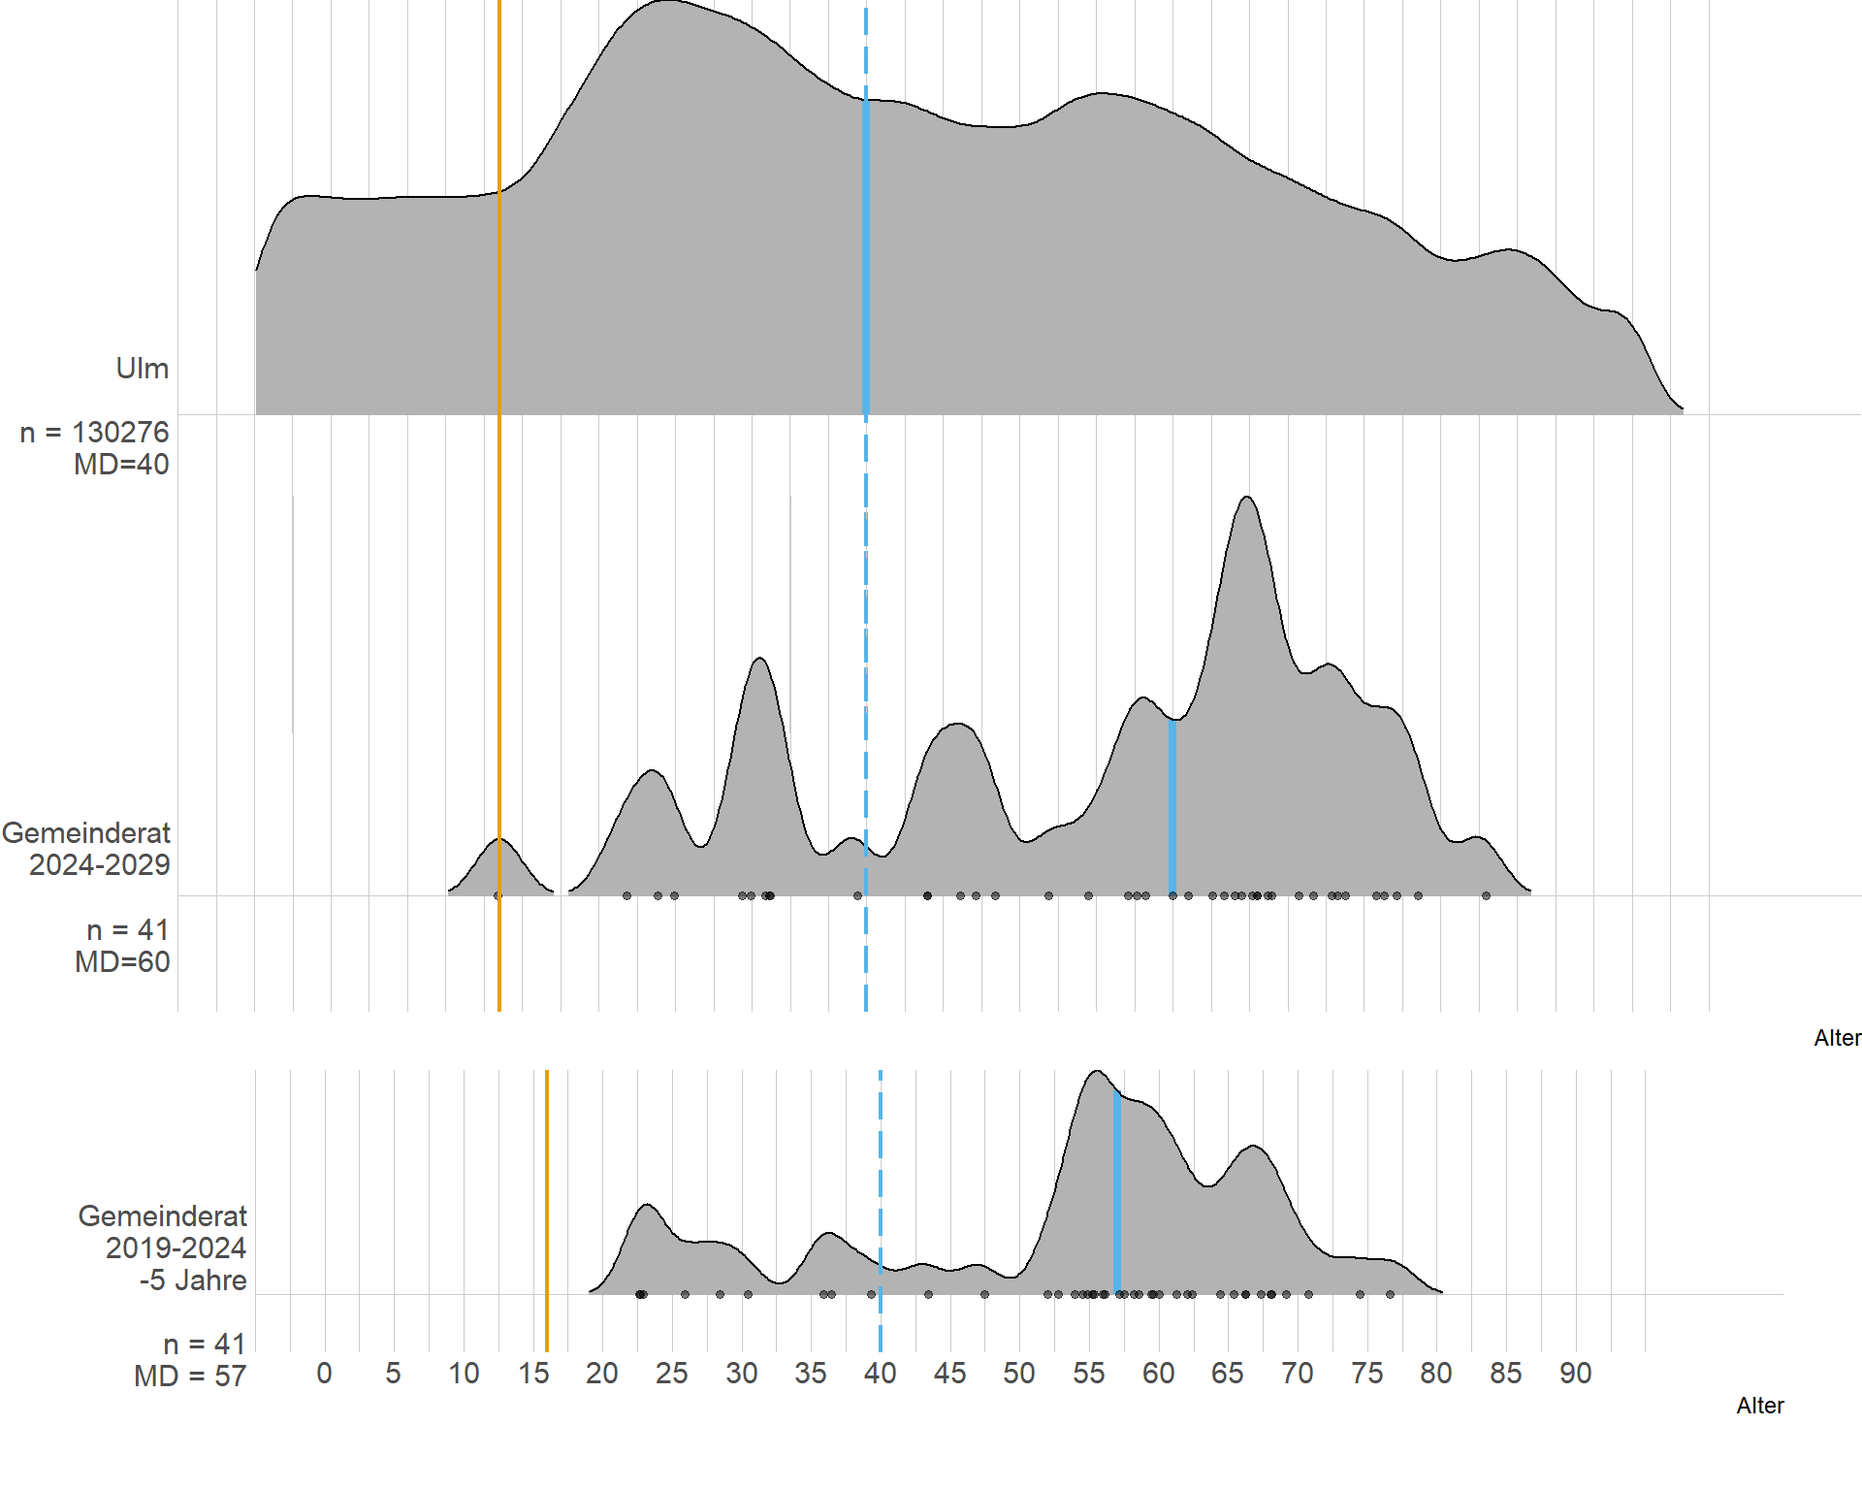
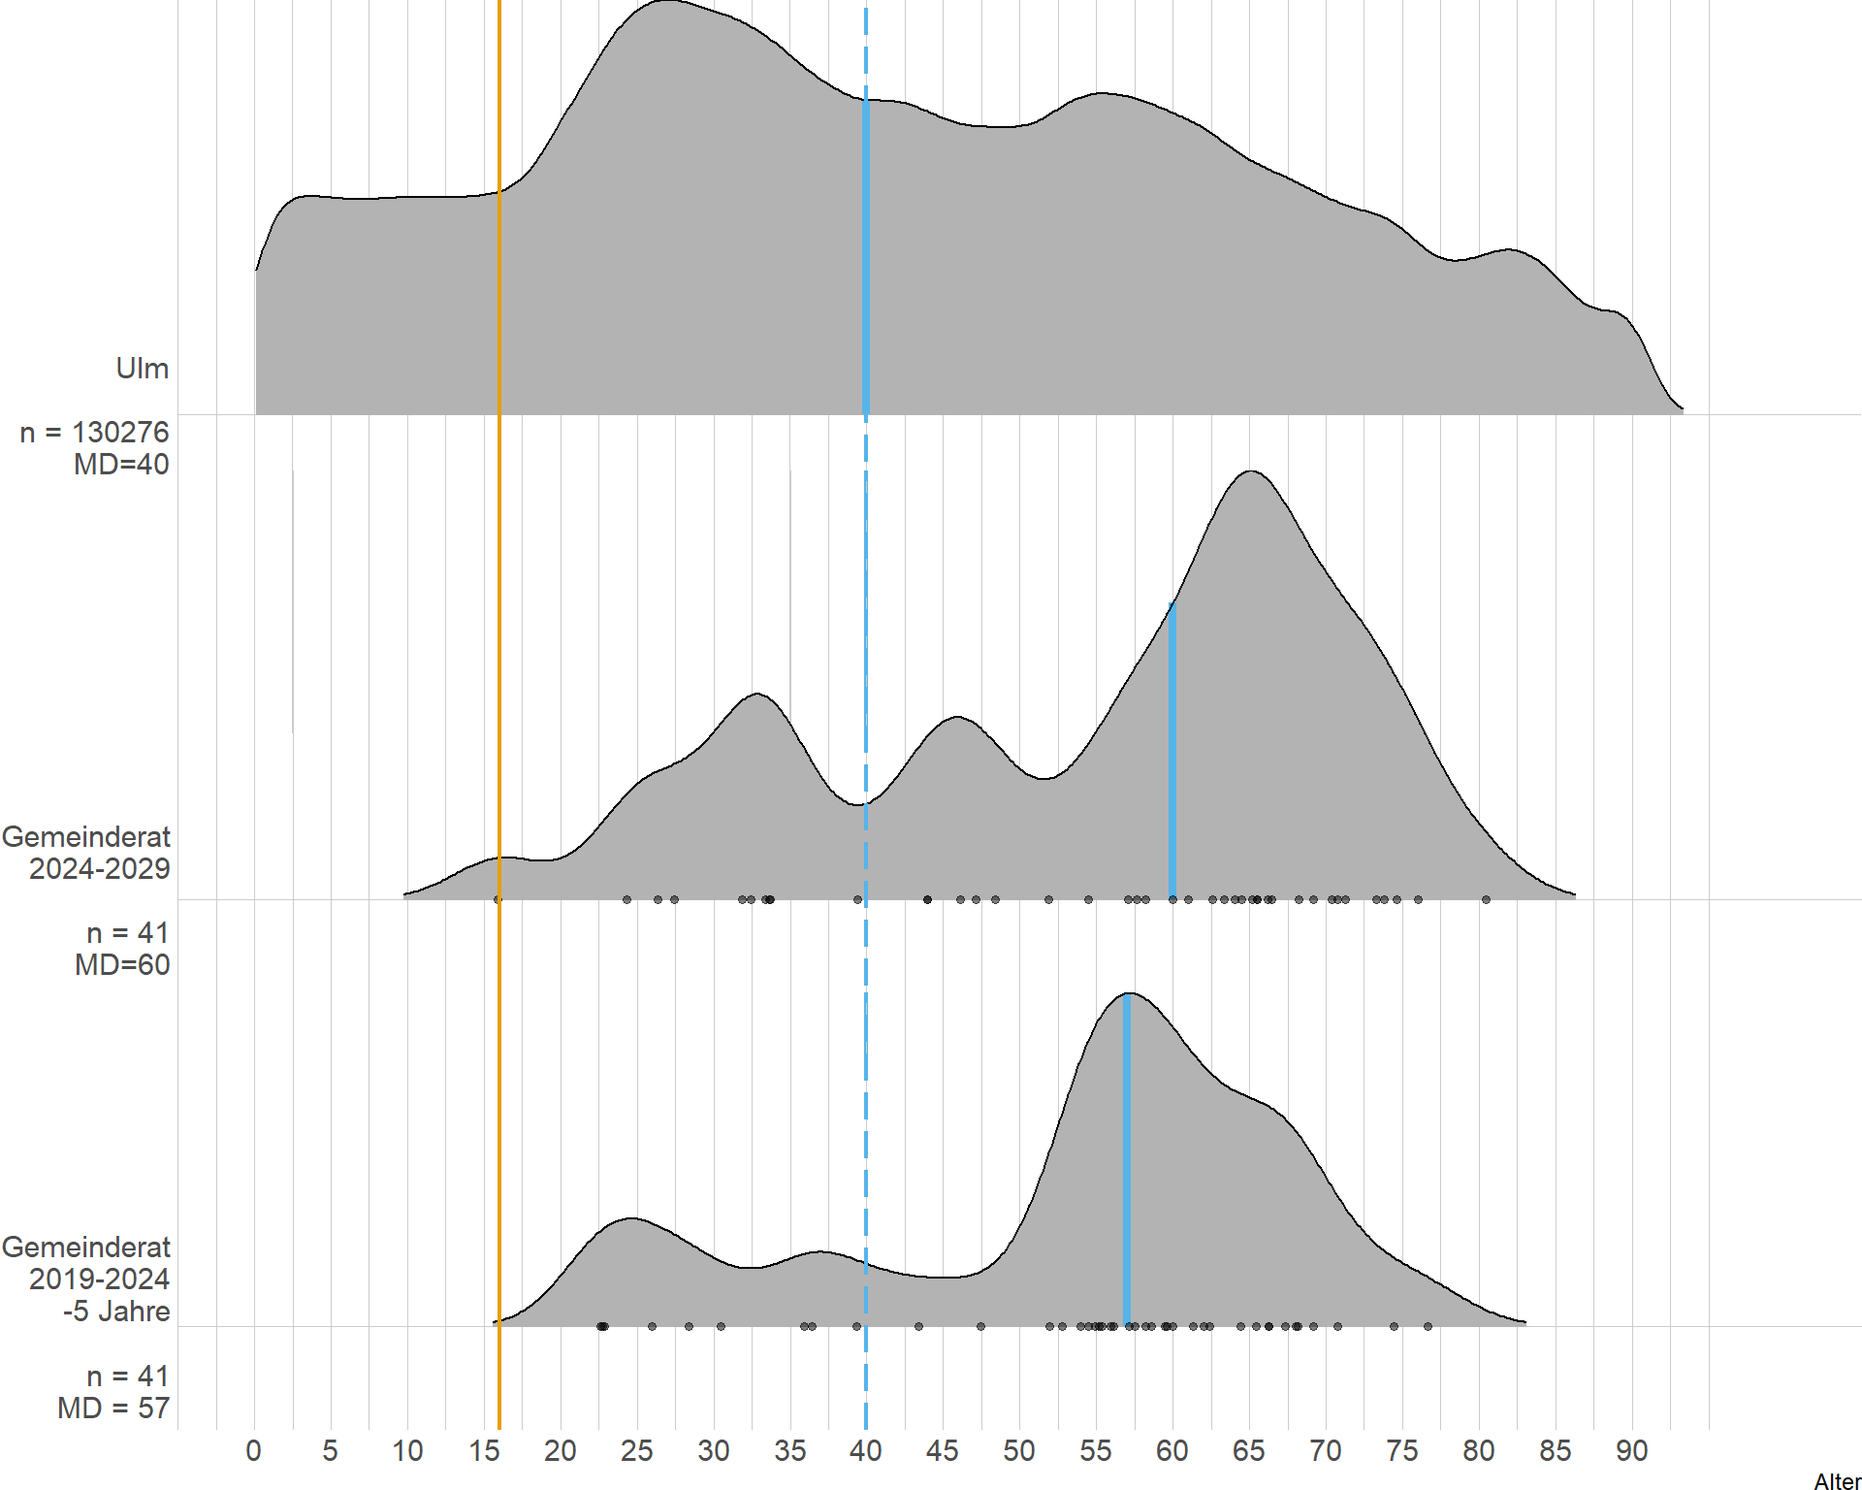
Kleine Verbesserungen am neuen Artikel. Fixes Homepage.

diff --git a/docs/2024/06/12/neuer-gemeinderat-2024/index.html b/docs/2024/06/12/neuer-gemeinderat-2024/index.html
@@ -32,7 +32,7 @@
     <div class="wrapper">
       <header class="header">
         <nav class="nav">
-  <a href="/" class="nav-logo">
+  <a href="https://semaphor.github.io/" class="nav-logo">
     <img src="/politische-demografie-ulm/images/logo.png"
          width="50"
          height="50"
@@ -82,8 +82,8 @@
 <script src="https://semaphor.github.io/politische-demografie-ulm/2024/06/12/neuer-gemeinderat-2024/index_files/crosstalk/js/crosstalk.min.js"></script>
 
 
-<p><em>Weitere Statistiken, die verwendeten Quellen und ein paar Erläuterungen und Hintergrundinformationen findest Du in</em> <a href="/2024/05/30/vergleich-alter-bevoelkerung-wahllisten-gemeinderat/">unserer Analyse der Kandidat:innen vor der Wahl</a><em>.</em></p>
-<p>Die Wahlergebnisse der Ulmer Gemeinderatswahl vom 9.6.2024 sind da und wir haben auf Basis der <a href="https://wahlergebnisse.komm.one/lb/produktion/wahltermin-20240609/08421000/praesentation/ergebnis.html?wahl_id=2496&amp;stimmentyp=0&amp;id=ebene_-8900_id_14330">vorläufigen amtlichen Ergebnisse</a> eine erste Analyse erstellt. Abbildung <a href="#fig:plot-vgl-neuer-rat">1</a> stellt die Altersstruktur des neuen Gemeinderats (Mitte) im Vergleich mit der Ulmer Bevölkerung (oben) und des noch aktuellen Gemeinderats (Wahlperiode 2019-2024, unten) dar. Für die Vergleiche in diesem Artikel verschieben wir die Altersstruktur des aktuellen Gemeinderats auf den Zeitpunkt seiner Wahl 2019. Damals hatte dieser Rat ein mittleres Alter (<a href="/2024/05/30/vergleich-alter-bevoelkerung-wahllisten-gemeinderat#Bevölkerung%20und%20Kandidat:innen">Median</a>) von 57 Jahren. <strong>Der neue Gemeinderat ist mit einem mittleren Alter von 60 Jahren um 3 Jahre älter als der aktuelle Rat bei seinem Start 2019.</strong> Zum Vergleich: Die Ulmer Bevölkerung ist aktuell im Mittel 40 Jahre alt.</p>
+<p><em>Weitere Statistiken, die verwendeten Quellen und ein paar Erläuterungen und Hintergrundinformationen findest Du in</em> <a href="2024/05/30/vergleich-alter-bevoelkerung-wahllisten-gemeinderat/">unserer Analyse der Kandidat:innen vor der Wahl</a><em>.</em></p>
+<p>Die Wahlergebnisse der Ulmer Gemeinderatswahl vom 9.6.2024 sind da und wir haben auf Basis der <a href="https://wahlergebnisse.komm.one/lb/produktion/wahltermin-20240609/08421000/praesentation/ergebnis.html?wahl_id=2496&amp;stimmentyp=0&amp;id=ebene_-8900_id_14330">vorläufigen amtlichen Ergebnisse</a> eine erste Analyse erstellt. Abbildung <a href="#fig:plot-vgl-neuer-rat">1</a> stellt die Altersstruktur des neuen Gemeinderats (Mitte) im Vergleich mit der Ulmer Bevölkerung (oben) und des noch aktuellen Gemeinderats (Wahlperiode 2019-2024, unten) dar. Für die Vergleiche in diesem Artikel verschieben wir die Altersstruktur des aktuellen Gemeinderats auf den Zeitpunkt seiner Wahl 2019. Damals hatte dieser Rat ein mittleres Alter (<a href="2024/05/30/vergleich-alter-bevoelkerung-wahllisten-gemeinderat#Bevölkerung%20und%20Kandidat:innen">Median</a>) von 57 Jahren. <strong>Der neue Gemeinderat ist mit einem mittleren Alter von 60 Jahren um 3 Jahre älter als der aktuelle Rat bei seinem Start 2019.</strong> Zum Vergleich: Die Ulmer Bevölkerung ist aktuell im Mittel 40 Jahre alt.</p>
 <p><strong>Das jüngste Ratsmitglied ist nun 16 Jahre alt</strong> und damit <a href="https://www.stuttgarter-nachrichten.de/inhalt.gewaehlt-mit-16-jahren-teenager-erobern-die-gemeinderaete.da4f161c-e974-47bd-bfcd-09b73b2a6ce9.html">eine der ersten 16-jährigen Gemeinderrät:innen</a> in Baden-Württemberg (im noch aktuellen Rat ist die jüngste Rät:in momentan 28). <strong>Das älteste Mitglied im neuen Rat ist 80 Jahre alt</strong> (82 Jahre momentan im aktuellen Rat).</p>
 <div class="figure" style="text-align: center"><span style="display:block;" id="fig:plot-vgl-neuer-rat"></span>
 <img src="https://semaphor.github.io/politische-demografie-ulm/2024/06/12/neuer-gemeinderat-2024/index_files/figure-html/plot-vgl-neuer-rat-1.png" alt="Vergleich Altersverteilung Ulmer Bevölkerung (oben), am 9.6.2024 neu gewählter Gemeinderat (Mitte) und bisheriger/aktueller Gemeinderat (unten). Jeweils Wahlalter (orange), jeweiliger Alters-Median (blau durchgehend) und Alters-Median der Ulmer Bevölkerung (blau gestrichelt)" width="960" style="display: block; margin: 40px;" />
@@ -100,11 +100,11 @@ Abbildung 1: Vergleich Altersverteilung Ulmer Bevölkerung (oben), am 9.6.2024 n
 Abbildung 2: Aufteilung in gleich große Viertel (sogenannte Quartile) nach Alter. Die Zeile 0 % enthält das jeweils jüngste Alter, die Zeile 100 % das älteste (Anmerkung: 90 Jahre bei “Ulm, ab 16” resultiert aus der Darstellung im vorliegenden Datensätzen, es gibt ältere Ulmer:innen). Die Zeilen 25, 50 und 75 % enthalten die Altersgrenzen zwischen den Vierteln. Die Spalte a enthält die Spannweiten der Viertel für “Ulm, ab 16”, b die Spannweiten für “Neuer Gemeinderat” und c die Spannweiten für “Gemeinderat 2019-2024 (-5 Jahre)”.
 </p>
 </div>
-<p>Abschließend (Abbildung <a href="#fig:altersVergleichKandidatinnenRat">3</a>) noch eine Gegenüberstellung der Altersverteilung der zur Wahl stehenden Kandidat:innen mit den nun gewählten Gemeinderät:innen.</p>
+<p>Abschließend in Abbildung <a href="#fig:altersVergleichKandidatinnenRat">3</a> noch eine Gegenüberstellung der Altersverteilung der zur Wahl stehenden Kandidat:innen mit den nun gewählten Gemeinderät:innen. Um den Vergleich zu erleichtern haben wir für die schwarzen Kurven der Altersverteilungen eine stärkere Glättung als bei den bisherigen Kurzven gewählt.</p>
 <div class="figure" style="text-align: center"><span style="display:block;" id="fig:altersVergleichKandidatinnenRat"></span>
-<img src="https://semaphor.github.io/politische-demografie-ulm/2024/06/12/neuer-gemeinderat-2024/index_files/figure-html/altersVergleichKandidatinnenRat-1.png" alt="Vergleich Altersverteilung zur Wahl stehende Kandidat_innen (oben) und am 9.6.2024 gewählter Gemeinderat (unten). Jeweils Wahlalter (orange), Altersmedian (blau durchgehend) und Alters-Median Ulmer Bevölkerung (blau gestrichelt)" width="960" style="display: block;" />
+<img src="https://semaphor.github.io/politische-demografie-ulm/2024/06/12/neuer-gemeinderat-2024/index_files/figure-html/altersVergleichKandidatinnenRat-1.png" alt="Vergleich Altersverteilung zur Wahl stehende Kandidat_innen (oben) und am 9.6.2024 gewählte Gemeinderatsmitglieder (unten). Jeweils Wahlalter (orange), Altersmedian (blau durchgehend) und Alters-Median Ulmer Bevölkerung (blau gestrichelt)" width="960" style="display: block;" />
 <p class="caption">
-Abbildung 3: Vergleich Altersverteilung zur Wahl stehende Kandidat_innen (oben) und am 9.6.2024 gewählter Gemeinderat (unten). Jeweils Wahlalter (orange), Altersmedian (blau durchgehend) und Alters-Median Ulmer Bevölkerung (blau gestrichelt)
+Abbildung 3: Vergleich Altersverteilung zur Wahl stehende Kandidat_innen (oben) und am 9.6.2024 gewählte Gemeinderatsmitglieder (unten). Jeweils Wahlalter (orange), Altersmedian (blau durchgehend) und Alters-Median Ulmer Bevölkerung (blau gestrichelt)
 </p>
 </div>
 <p><strong>Unser Fazit:</strong> Mit der Wahl hat sich der nächste Ulmer Gemeinderat im Mittel nur um ein Jahr verjüngt. Das genügt angesichts einer Wahlperiode von fünf Jahren nicht, um das Alter sozsuagen zu halten – <strong>statistisch gesehen startet der neue Rat als älteres Gremium</strong>. Aus den jüngeren Hälfte der Bevölkerung <strong>unter 40 sind nur relativ wenige zur Wahl angetreten</strong>. Aus diesem also bereits älteren Feld der Kandidat:innen wurden <strong>eher die Älteren gewählt</strong>.</p>
@@ -158,6 +158,13 @@ Abbildung 3: Vergleich Altersverteilung zur Wahl stehende Kandidat_innen (oben) 
 </tr>
 </tbody>
 </table>
+<style type="text/css">
+.caption {
+  padding: .5em;
+  font-size: 0.8em;
+  font-weight: bold;
+}
+</style>
 
     </div>
   </article>

diff --git a/docs/ueber/index.html b/docs/ueber/index.html
@@ -32,7 +32,7 @@
     <div class="wrapper">
       <header class="header">
         <nav class="nav">
-  <a href="/" class="nav-logo">
+  <a href="https://semaphor.github.io/" class="nav-logo">
     <img src="/politische-demografie-ulm/images/logo.png"
          width="50"
          height="50"
@@ -64,7 +64,7 @@
 
     <div class="article-content">
       
-      <p><a href="kontakt/">Wir</a> sind keine bezahlten Profis aus beispielsweise Journalismus, Verwaltung oder Wissenschaft, sondern im sogenannten <a href="https://temporaerhaus.de/gruppen/ulmapi/">digitalen</a> <a href="https://temporaerhaus.de/offene-wahldaten-mit-wikidata/">Ehrenamt</a> <a href="https://temporaerhaus.de/geschichte/">engagierte</a> <a href="https://codefor.de/blog/fuenf-jahre-code-for-germany/">Bürger:innen</a>. Wir möchten mit diesem Projekt Euch alle zur politischen Debatte einladen. Und dazu motivieren immer selber an den Stellen tiefer reinzuschauen, die für Dich relevant sind. Im <a href="https://github.com/semaphor/politische-demografie-ulm">Projekt auf GitHub</a> findest Du die aus den Quellen aufbereiteten Datensätze. In die Tabellen im Unterordner <a href="https://github.com/semaphor/politische-demografie-ulm/tree/main/content/daten"><code>/content/daten</code></a> kann man sich direkt im Webbrowser reinklicken.</p>
+      <p><a href="../kontakt/">Wir</a> sind keine bezahlten Profis aus beispielsweise Journalismus, Verwaltung oder Wissenschaft, sondern im sogenannten <a href="https://temporaerhaus.de/gruppen/ulmapi/">digitalen</a> <a href="https://temporaerhaus.de/offene-wahldaten-mit-wikidata/">Ehrenamt</a> <a href="https://temporaerhaus.de/geschichte/">engagierte</a> <a href="https://codefor.de/blog/fuenf-jahre-code-for-germany/">Bürger:innen</a>. Wir möchten mit diesem Projekt Euch alle zur politischen Debatte einladen. Und dazu motivieren immer selber an den Stellen tiefer reinzuschauen, die für Dich relevant sind. Im <a href="https://github.com/semaphor/politische-demografie-ulm">Projekt auf GitHub</a> findest Du die aus den Quellen aufbereiteten Datensätze. In die Tabellen im Unterordner <a href="https://github.com/semaphor/politische-demografie-ulm/tree/main/content/daten"><code>/content/daten</code></a> kann man sich direkt im Webbrowser reinklicken.</p>
 <p>Bist Du noch tiefer an der Technik, die unseren Alltag so sehr prägt und an der Arbeit mit Daten interessiert, kannst du auch ein Blick in den vollständigen Programmcode zur Auswertungen der Daten und Erstellung dieses Berichts/dieser Website werfen (Startpunkt sind die <code>.Rmd</code>-Dateien in den Unterordnern in <code>/content/post</code> und die Programmiersprache R bzw. RMarkdown).<br>
 Möchtest hierzu (oder zu anderen Technik-Themen) direkt mit Gleichgesinnten in Kontakt kommen könnte sich ein <a href="https://temporaerhaus.de/termine-und-oeffnungszeiten/">Besuch im temporärhaus</a> lohnen &ndash; egal ob einfach mal so oder ob Du bereits Programmierkenntnisse besitzt oder evtl. daran <a href="https://jugendhackt.org/lab/neu-ulm/">interessiert bist</a> <a href="https://temporaerhaus.de/gruppen/fuck/">Programmieren zu lernen</a>. Wenn du direkt einsteigen willst (und dich mit der Statistik-Programmiersprache R ein bisschen auskennst) findest Du im Projekt teilweise Ansatzpunkte, über die wir bisher nachgedacht haben (oder einfach nur gestolpert sind). Wir freuen uns über pull requests (also direkte Beiträge zum Code im Projekt über die Programmcode-Plattform GitHub).<br>
 Wir möchten wie gesagt nicht nur zum Reinschauen, sondern immer auch zum Mitmachen motivieren &ndash; man muss nicht direkt für ein politisches Amt kandidieren, sondern kann auch auf viele andere Arten und Weisen eine aktive Bürger:in sein!</p>

diff --git a/themes/hugo-lithium/layouts/partials/nav.html b/themes/hugo-lithium/layouts/partials/nav.html
@@ -1,5 +1,5 @@
 <nav class="nav">
-  <a href="{{ "/" | relURL }}" class="nav-logo">
+  <a href="{{ "/" | absURL }}" class="nav-logo">
     <img src="{{ print "images/" .Site.Params.logo.url | relURL }}"
          width="{{ .Site.Params.logo.width }}"
          height="{{ .Site.Params.logo.height }}"

diff --git a/docs/2024/05/30/vergleich-alter-bevoelkerung-wahllisten-gemeinderat/index.html b/docs/2024/05/30/vergleich-alter-bevoelkerung-wahllisten-gemeinderat/index.html
@@ -37,7 +37,7 @@
     <div class="wrapper">
       <header class="header">
         <nav class="nav">
-  <a href="/" class="nav-logo">
+  <a href="https://semaphor.github.io/" class="nav-logo">
     <img src="/politische-demografie-ulm/images/logo.png"
          width="50"
          height="50"

diff --git a/docs/categories/index.html b/docs/categories/index.html
@@ -34,7 +34,7 @@
     <div class="wrapper">
       <header class="header">
         <nav class="nav">
-  <a href="/" class="nav-logo">
+  <a href="https://semaphor.github.io/" class="nav-logo">
     <img src="/politische-demografie-ulm/images/logo.png"
          width="50"
          height="50"

diff --git a/docs/index.html b/docs/index.html
@@ -34,7 +34,7 @@
     <div class="wrapper">
       <header class="header">
         <nav class="nav">
-  <a href="/" class="nav-logo">
+  <a href="https://semaphor.github.io/" class="nav-logo">
     <img src="/politische-demografie-ulm/images/logo.png"
          width="50"
          height="50"

diff --git a/docs/kontakt/index.html b/docs/kontakt/index.html
@@ -32,7 +32,7 @@
     <div class="wrapper">
       <header class="header">
         <nav class="nav">
-  <a href="/" class="nav-logo">
+  <a href="https://semaphor.github.io/" class="nav-logo">
     <img src="/politische-demografie-ulm/images/logo.png"
          width="50"
          height="50"

diff --git a/docs/post/index.html b/docs/post/index.html
@@ -34,7 +34,7 @@
     <div class="wrapper">
       <header class="header">
         <nav class="nav">
-  <a href="/" class="nav-logo">
+  <a href="https://semaphor.github.io/" class="nav-logo">
     <img src="/politische-demografie-ulm/images/logo.png"
          width="50"
          height="50"

diff --git a/docs/tags/index.html b/docs/tags/index.html
@@ -34,7 +34,7 @@
     <div class="wrapper">
       <header class="header">
         <nav class="nav">
-  <a href="/" class="nav-logo">
+  <a href="https://semaphor.github.io/" class="nav-logo">
     <img src="/politische-demografie-ulm/images/logo.png"
          width="50"
          height="50"

diff --git a/content/ueber.md b/content/ueber.md
@@ -3,7 +3,7 @@ date: 2024-05-30
 title: Über dieses Projekt
 ---
 
-[Wir](kontakt/) sind keine bezahlten Profis aus beispielsweise Journalismus, Verwaltung oder Wissenschaft, sondern im sogenannten [digitalen](https://temporaerhaus.de/gruppen/ulmapi/) [Ehrenamt](https://temporaerhaus.de/offene-wahldaten-mit-wikidata/) [engagierte](https://temporaerhaus.de/geschichte/) [Bürger:innen](https://codefor.de/blog/fuenf-jahre-code-for-germany/). Wir möchten mit diesem Projekt Euch alle zur politischen Debatte einladen. Und dazu motivieren immer selber an den Stellen tiefer reinzuschauen, die für Dich relevant sind. Im [Projekt auf GitHub](https://github.com/semaphor/politische-demografie-ulm) findest Du die aus den Quellen aufbereiteten Datensätze. In die Tabellen im Unterordner [`/content/daten`](https://github.com/semaphor/politische-demografie-ulm/tree/main/content/daten) kann man sich direkt im Webbrowser reinklicken.
+[Wir](../kontakt/) sind keine bezahlten Profis aus beispielsweise Journalismus, Verwaltung oder Wissenschaft, sondern im sogenannten [digitalen](https://temporaerhaus.de/gruppen/ulmapi/) [Ehrenamt](https://temporaerhaus.de/offene-wahldaten-mit-wikidata/) [engagierte](https://temporaerhaus.de/geschichte/) [Bürger:innen](https://codefor.de/blog/fuenf-jahre-code-for-germany/). Wir möchten mit diesem Projekt Euch alle zur politischen Debatte einladen. Und dazu motivieren immer selber an den Stellen tiefer reinzuschauen, die für Dich relevant sind. Im [Projekt auf GitHub](https://github.com/semaphor/politische-demografie-ulm) findest Du die aus den Quellen aufbereiteten Datensätze. In die Tabellen im Unterordner [`/content/daten`](https://github.com/semaphor/politische-demografie-ulm/tree/main/content/daten) kann man sich direkt im Webbrowser reinklicken.
 
 Bist Du noch tiefer an der Technik, die unseren Alltag so sehr prägt und an der Arbeit mit Daten interessiert, kannst du auch ein Blick in den vollständigen Programmcode zur Auswertungen der Daten und Erstellung dieses Berichts/dieser Website werfen (Startpunkt sind die `.Rmd`-Dateien in den Unterordnern in `/content/post` und die Programmiersprache R bzw. RMarkdown).  
 Möchtest hierzu (oder zu anderen Technik-Themen) direkt mit Gleichgesinnten in Kontakt kommen könnte sich ein [Besuch im temporärhaus](https://temporaerhaus.de/termine-und-oeffnungszeiten/) lohnen -- egal ob einfach mal so oder ob Du bereits Programmierkenntnisse besitzt oder evtl. daran [interessiert bist](https://jugendhackt.org/lab/neu-ulm/) [Programmieren zu lernen](https://temporaerhaus.de/gruppen/fuck/). Wenn du direkt einsteigen willst (und dich mit der Statistik-Programmiersprache R ein bisschen auskennst) findest Du im Projekt teilweise Ansatzpunkte, über die wir bisher nachgedacht haben (oder einfach nur gestolpert sind). Wir freuen uns über pull requests (also direkte Beiträge zum Code im Projekt über die Programmcode-Plattform GitHub).  
